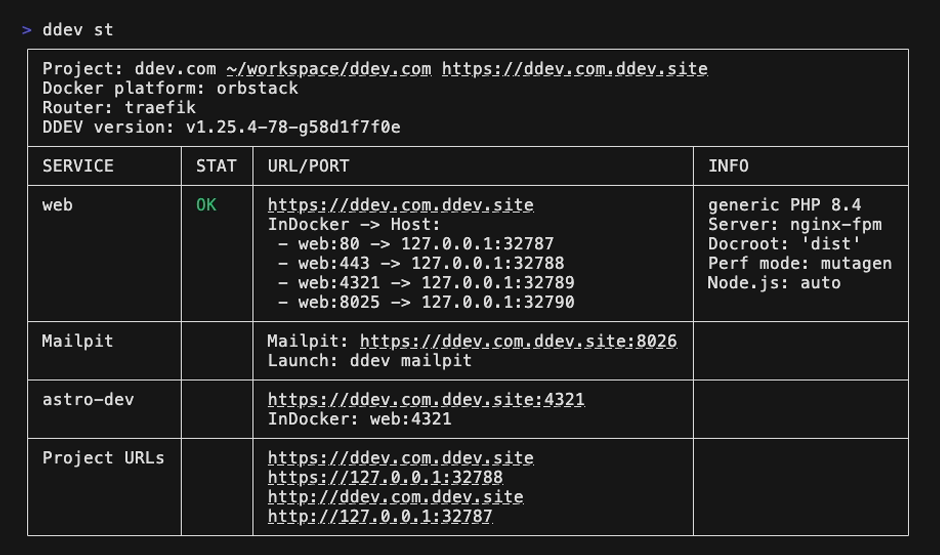
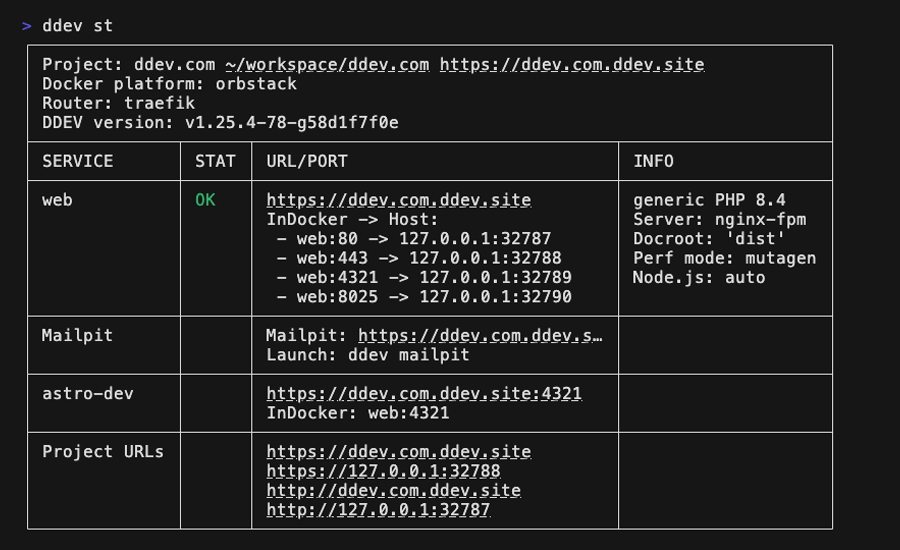
docs(blog): use narrow screenshots for ddev list and ddev st
## The Issue

- Fixes #REPLACE_ME_WITH_RELATED_ISSUE_NUMBER

The text captures of `ddev list` and `ddev st` did not show the OSC 8 hyperlinks and were wide for phone screens.

## How This PR Solves The Issue

Replaces both text blocks with screenshots taken in a narrower terminal, where the clickable locations and URLs are underlined.

## Manual Testing Instructions

Open the post at `https://REPLACE_ME.ddev-com-front-end.pages.dev/blog/navigating-ddev-projects-filesystem/` and check both screenshots render.

## Automated Testing Overview

No automated tests. `ddev prettier` and `ddev textlint` pass.

## Release/Deployment Notes

Draft only. The screencast embed and several TODO comments remain.

🤖 Developed with assistance from [Claude Code](https://claude.ai/code)

Changed region(s): [[0.0, 0.0309, 0.9644, 0.9891]]

diff --git a/src/content/blog/navigating-ddev-projects-filesystem.md b/src/content/blog/navigating-ddev-projects-filesystem.md
@@ -16,20 +16,11 @@ A recent [post on Bluesky](https://bsky.app/profile/bymayo.bsky.social/post/3mwq
 
 ## See What Is Running: `ddev list`
 
-`ddev list` shows every project DDEV knows about, with its status, location, URL, and type. To see only the projects that are running, use `ddev list --active-only` (or `ddev list -A`):
+`ddev list` shows every project DDEV knows about, with its status, location, URL, and type. The underlined locations and URLs are terminal hyperlinks you can click.
 
-```text
-┌──────────┬─────────┬────────────────┬─────────────────────────┬──────────┐
-│ NAME     │ STATUS  │ LOCATION       │ URL                     │ TYPE     │
-├──────────┼─────────┼────────────────┼─────────────────────────┼──────────┤
-│ randyfay │ running │ ~/workspace/r… │ https://randyfay.ddev.… │ backdrop │
-│          │ (ok)    │                │                         │          │
-├──────────┼─────────┼────────────────┼─────────────────────────┼──────────┤
-│ Router   │ OK      │ ~/.ddev        │ http://127.0.0.1:11999  │          │
-└──────────┴─────────┴────────────────┴─────────────────────────┴──────────┘
-```
+![ddev list output showing projects with status, location, URL, and type](/img/blog/2026/09/navigating-ddev-list.png)
 
-`ddev poweroff` stops every running project at once.
+To see only the projects that are running, use `ddev list --active-only` (or `ddev list -A`). `ddev poweroff` stops every running project at once.
 
 ## The DDEV Dashboard: Just Type `ddev`
 
@@ -88,22 +79,13 @@ ddevcd myproject && ddev start && code .
 
 `ddev describe` has a short alias, `ddev st`, which is easy to type and worth adopting. It prints the project's details, including the project's location on disk.
 
-The header of the output looks like this:
+![ddev st output with the project location underlined as a clickable link](/img/blog/2026/09/navigating-ddev-describe.png)
 
-```text
-Project: randyfay ~/workspace/randyfay.com https://randyfay.ddev.site
-Docker platform: orbstack
-Router: traefik
-DDEV version: v1.25.4
-```
-
-The project location (`~/workspace/randyfay.com`) is a terminal hyperlink to the project directory. Click it (usually Cmd-click on macOS, Ctrl-click on Linux and Windows) and your file manager opens at the project root. `ddev list` has the same link in its LOCATION column.
+The project location (`~/workspace/ddev.com` in the header above) is a terminal hyperlink to the project directory. Click it (usually Cmd-click on macOS, Ctrl-click on Linux and Windows) and your file manager opens at the project root. `ddev list` has the same link in its LOCATION column.
 
 DDEV turns these links on for terminals known to support them: iTerm2, Ghostty, WezTerm, Kitty, Alacritty, Windows Terminal, VS Code's integrated terminal, GNOME Terminal and other VTE-based terminals, Konsole, and a few others. If your terminal isn't detected, set `FORCE_HYPERLINK=1` to enable them, for example `FORCE_HYPERLINK=1 ddev st`.
 
-![ddev st output with the project location underlined as a clickable link](/img/blog/2026/09/navigating-ddev-describe.png)
-
-<!-- TODO: Replace or supplement with an iTerm2 screenshot showing the link hovered. Verify whether Apple Terminal.app supports OSC 8 links when forced. -->
+<!-- TODO: Supplement or supplement with an iTerm2 screenshot showing the link hovered. Verify whether Apple Terminal.app supports OSC 8 links when forced. -->
 
 ## Advanced: Answer Questions With `ddev list -j` and `jq`
 
